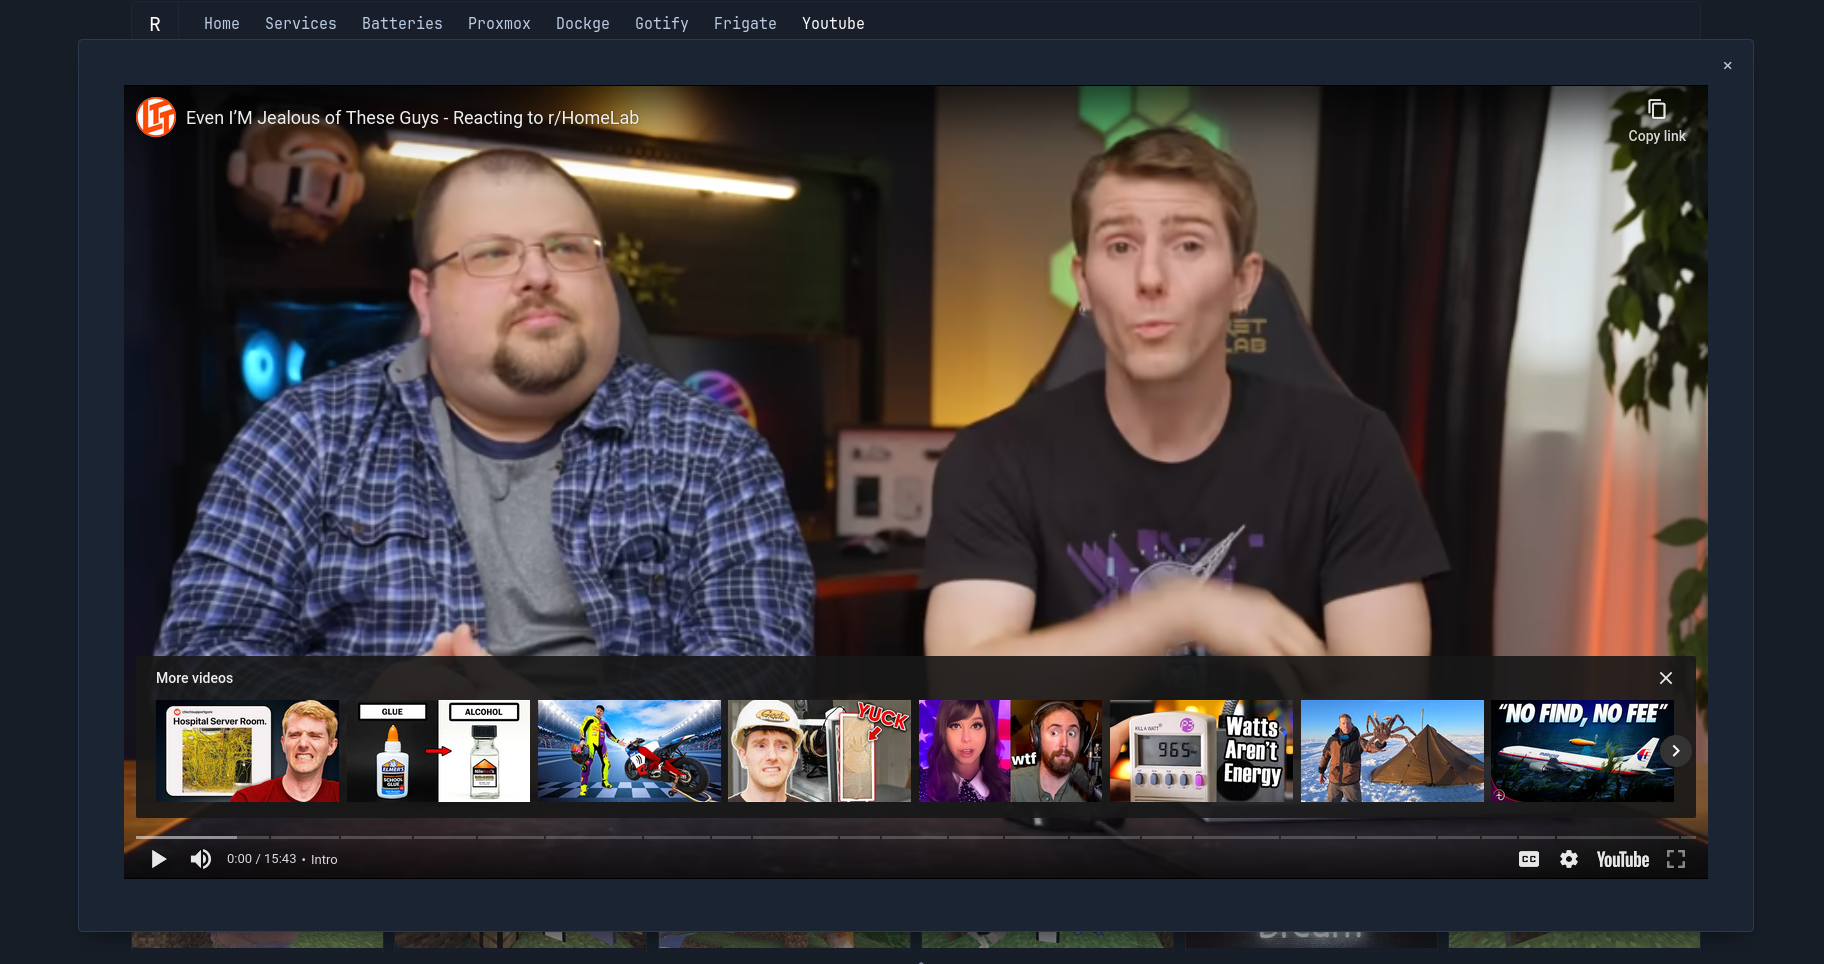
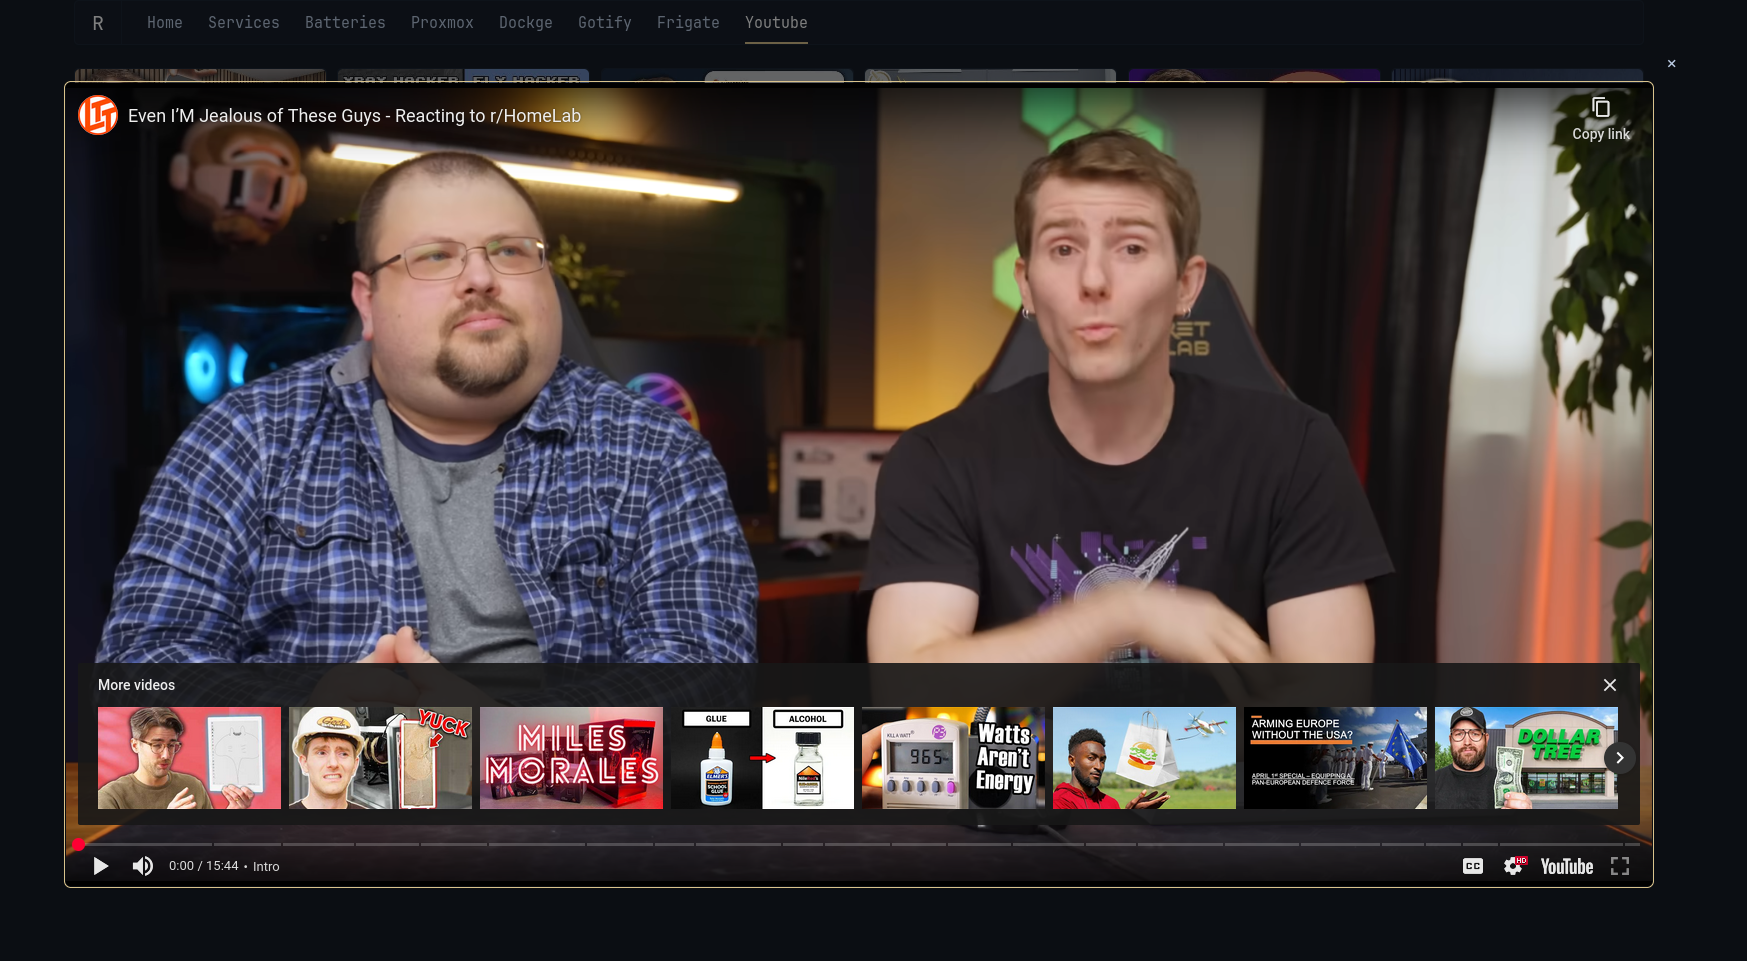
fix: * mobile view
added:
* modal-no-background css class
* modal dim background
* iframe-embedded-video css class
* Escape Key closes modal
* class inherit

diff --git a/widgets/youtube-embedded-player/README.md b/widgets/youtube-embedded-player/README.md
@@ -37,11 +37,9 @@ This only supports 1 channel unless you use `By playlist` or `By search result` 
         {{ $thumbnail := findSubmatch "img src=\"([^\"]+)" (.String "content_html") }}
         
         <div class="card widget-content-frame thumbnail-parent">
-          <div type="modal">
+          <div type="modal" class="modal-no-background">
             <div modal-content>
-              <div style="display: flex; width: 100%; height: 80vh;">
-                <iframe src="{{ $youtubeEmbedUrl }}" loading="lazy" style="flex-grow: 1; border: none;"></iframe>
-              </div>
+              <iframe src="{{ $youtubeEmbedUrl }}" loading="lazy" class="iframe-embedded-video"></iframe>
             </div>
             <span>
               {{ if ne $thumbnail "" }}
@@ -120,6 +118,19 @@ If you're using [FreshRSS](https://github.com/FreshRSS/FreshRSS) as a backend th
 5. Enable sharing by HTML & RSS then Submit
 6. Copy `Shareable link to the GReader JSON`
 
+### iframe styling
+```css
+iframe.iframe-embedded-video {
+    outline: 1px solid var(--color-primary);
+    outline-offset: 0.1rem;
+    border-radius: var(--border-radius);
+    width: 100%;
+    height: 100%;
+    border: none;
+    background-color: var(--color-popover-background);
+}
+```
+
 ## YouTube embed proxy
 You can replace `https://www.youtube-nocookie.com/embed/` with your instance that supports embedding.
 
@@ -138,63 +149,71 @@ There's no native modal in Glance as of v0.7.9, so I made one for now based on p
 
 ### JavaScript
 ```js
-
-  const modalWrapper = document.createElement('div');
-  modalWrapper.className = 'modal';
-  modalWrapper.innerHTML = `
+const modalWrapper = document.createElement('div');
+modalWrapper.className = 'modal';
+modalWrapper.innerHTML = `
     <div class='modal-content'>
-      <span class='close'>&times;</span>
-      <div class='modal-body'></div>
+        <span class='close'>&times;</span>
+        <div class='modal-body'></div>
     </div>
-  `;
-  document.body.appendChild(modalWrapper);
-  
-  const modal = document.querySelector('.modal');
-  const modalContent = document.querySelector('.modal-content');
-  const modalBody = document.querySelector('.modal-body');
-  const closeBtn = document.querySelector('.close');
-  
-  document.addEventListener('click', (e) => {
-    if (e.target.closest('[type="modal"]')) {
-      const triggerElement = e.target.closest('[type="modal"]');
-      const contentElement = triggerElement.querySelector('[modal-content]');
-      
-      if (contentElement) {
-          const tempDiv = document.createElement('div');
-          tempDiv.innerHTML = contentElement.innerHTML.trim();
-          modalBody.innerHTML = '';
-          modalBody.appendChild(tempDiv);
-      }
-      
-      const width = triggerElement.getAttribute('width') || '90vw';
-      const height = triggerElement.getAttribute('height') || '90vh';
+`;
+document.body.appendChild(modalWrapper);
 
-      switch ( triggerElement.getAttribute('size')) {
-        case 'theater':
-          modalContent.style.width = '80vw';
-          modalContent.style.height = '80vh';
-          break;
-        case 'full':
-          modalContent.style.width = '100vw';
-          modalContent.style.height = '100vh';
-          break;
-        default:
-          modalContent.style.width = width;
-          modalContent.style.height = height;
-          break;
-      }
-      
-      modal.style.display = 'flex';
-      setTimeout(() => modal.classList.add('show'), 10);
+const modal = document.querySelector('.modal');
+const modalContent = document.querySelector('.modal-content');
+const modalBody = document.querySelector('.modal-body');
+const closeBtn = document.querySelector('.close');
+
+document.addEventListener('click', (e) => {
+  if (e.target.closest('[type="modal"]')) {
+    const triggerElement = e.target.closest('[type="modal"]');
+    const contentElement = triggerElement.querySelector('[modal-content]');
+    
+    if (contentElement) {
+      modalBody.innerHTML = contentElement.innerHTML.trim();
     }
-    if (e.target === closeBtn || e.target === modal) {
-      modal.classList.remove('show');
-      setTimeout(() => {
-          modal.style.display = 'none';
-          modalBody.innerHTML = ''; // Clear content on close
-      }, 300);
+    
+    modal.className = `modal ${triggerElement.className}`;
+    
+    const width = triggerElement.getAttribute('width') || '90vw';
+    const height = triggerElement.getAttribute('height') || '90vh';
+    
+    switch (triggerElement.getAttribute('size')) {
+      case 'theater':
+        modalContent.style.width = '80vw';
+        modalContent.style.height = '80vh';
+        break;
+      case 'full':
+        modalContent.style.width = '100vw';
+        modalContent.style.height = '100vh';
+        break;
+      default:
+        modalContent.style.width = width;
+        modalContent.style.height = height;
+        break;
     }
-  });
+    
+    modal.style.display = 'flex';
+    setTimeout(() => modal.classList.add('show'), 10);
+  }
+  if (e.target === closeBtn || e.target === modal) {
+    closeModal();
+  }
+});
+
+document.addEventListener('keydown', (e) => {
+  if (modal.classList.contains('show') && e.key === 'Escape') {
+    closeModal();
+  }
+});
+
+const closeModal = () => {
+  modal.classList.remove('show');
+  setTimeout(() => {
+      modal.style.display = 'none';
+      modalBody.innerHTML = '';
+  }, 300);
+}
 ```
 
 ### CSS
@@ -212,8 +231,23 @@ There's no native modal in Glance as of v0.7.9, so I made one for now based on p
   z-index: 15;
 }
 
+.modal::before {
+  content: '';
+  position: absolute;
+  top: 0; left: 0;
+  width: 100%;
+  height: 100%;
+  background: rgba(0, 0, 0, 0.5);
+  opacity: 0;
+  transition: opacity 0.3s ease;
+}
+
 .modal.show {
   display: flex;
+  opacity: 1;
+}
+
+.modal.show::before {
   opacity: 1;
 }
 
@@ -222,10 +256,16 @@ There's no native modal in Glance as of v0.7.9, so I made one for now based on p
   --shadow-color: hsla(var(--bghs), calc(var(--bgl) * 0.2), 0.5);
   background: var(--color-popover-background);
   border: 1px solid var(--color-popover-border);
-  padding: 45px;
+  padding: 4.5rem;
   border-radius: 5px;
   animation: modalFrameEntrance 0.3s backwards cubic-bezier(0.16, 1, 0.3, 1);
   box-shadow: var(--shadow-properties) var(--shadow-color);
+}
+
+.modal.modal-no-background .modal-content {
+  background: none;
+  border: none;
+  box-shadow: none;
 }
 
 .modal.show .modal-content {
@@ -243,6 +283,10 @@ There's no native modal in Glance as of v0.7.9, so I made one for now based on p
   position: absolute;
   top: 10px;
   right: 10px;
+}
+
+.modal .modal-body {
+  height: 100%;
 }
 
 [modal-content] {
